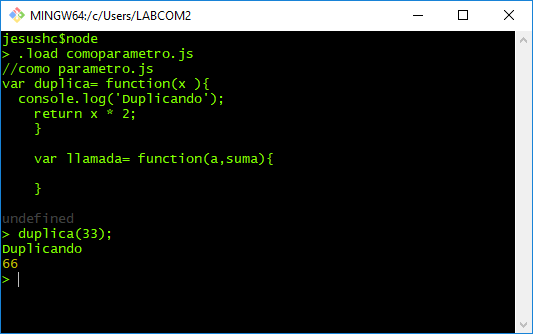
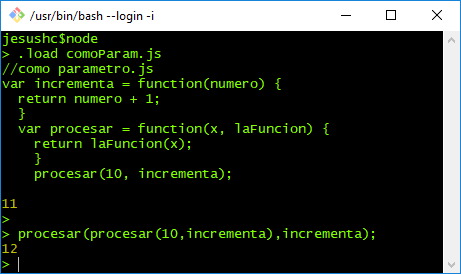
Correccion a funciones

Changed region(s): [[0.0, 0.0, 1.0, 1.0], [0.3037, 0.6131, 0.4859, 0.6715], [0.0304, 0.4088, 0.0607, 0.438]]

diff --git a/dia1/práctica2/comoParam2.js b/dia1/práctica2/comoParam2.js
@@ -1,0 +1,16 @@
+//como parametro.js
+var incrementa = function(numero) {
+  return numero + 1;
+}
+
+var duplicar = function(numero){
+  return numero+numero;
+}
+var procesar = function(x, laFuncion) {
+  return laFuncion(x);
+}
+procesar(10, incrementa);
+
+procesar(procesar(10,incrementa),incrementa);
+
+//procesar(procesar(procesar(10,incrementa),incrementa),duplicar);

diff --git a/dia1/práctica2/4.js b/dia1/práctica2/4.js
@@ -1,0 +1,17 @@
+//como parametro.js
+var suma = function (x , y) {
+return x + y;
+}
+
+var resta = function (x , y) {
+return x - y;
+}
+
+var calculadora = function (x , y, funcion) {
+return funcion(x,y);
+}
+calculadora(10, 20, suma);
+
+calculadora(10, 20, resta);
+
+calculadora(calculadora(10, 20, suma), calculadora(10, 20, resta),suma);

diff --git a/dia1/práctica2/comoParam5.js b/dia1/práctica2/comoParam5.js
@@ -1,0 +1,15 @@
+//como parametro.js
+var suma = function (x , y) {
+return x + y;
+}
+
+var resta = function (x , y) {
+return x - y;
+}
+
+var calculadora = function (x , y, funcion) {
+return funcion(x,y);
+}
+calculadora(10, 20, suma);
+calculadora(10, 20, resta);
+calculadora(calculadora(10, 20, suma),calculadora(10, 20, resta),suma);

diff --git a/dia1/práctica2/comoParam4.js b/dia1/práctica2/comoParam4.js
@@ -2,7 +2,13 @@
 var suma = function (x , y) {
 return x + y;
 }
+
+var resta = function (x , y) {
+return x - y;
+}
+
 var calculadora = function (x , y, funcion) {
 return funcion(x,y);
 }
-calculadora(10, 20, suma);
+//calculadora(10, 20, suma);
+//calculadora(10, 20, resta);

diff --git a/dia1/práctica2/comoParam.js b/dia1/práctica2/comoParam.js
@@ -1,0 +1,8 @@
+//como parametro.js
+var incrementa = function(numero) {
+  return numero + 1;
+}
+var procesar = function(x, laFuncion) {
+  return laFuncion(x);
+}
+procesar(10, incrementa);

diff --git a/dia1/práctica2/comoParam3.js b/dia1/práctica2/comoParam3.js
@@ -1,0 +1,10 @@
+
+
+//como parametro.js
+var suma = function (x , y) {
+return x + y;
+}
+var calculadora = function (x , y, funcion) {
+return funcion(x,y);
+}
+calculadora(10, 20, suma);

diff --git a/dia1/práctica2/README.md b/dia1/práctica2/README.md
@@ -2,6 +2,7 @@
 En node js al igual que en Javascript una funcion es una objeto que puede construirse en tiempo de ejecución, pasarse como un parámetro, devolverse desde una subrutina o asignarse a una variable, para luego ser invocada como variable. A esto se le conoce como first-class Object.
 
 A continuación realizaremos ejercicios que nos muestren estas características.
+### Declaración de funciones con nombre.
 
  1.-Primero aprendamos las 3 formas de declarar una función mas empleadas, la siguiente es una función con nombre, justo como la conocemos en otros lenguajes como C y PHP.
 
@@ -20,6 +21,8 @@ function regresaNumero(){
 Inicia REPL de node, carga el archivo y invoca los métodos.
 
 ![Screenshot](image1.PNG)
+
+### Declaclaración de funciones anónimas.
 
 2.-funciones anónimas
 Las funciones anónimas no tienen un nombre estableido en tre la palabra reservada function y el paso de argumentos, sin embargo es necesario asignarla a una variable para establecer una referencia.
@@ -40,6 +43,8 @@ Parámetros y argumentos
 
 ![Screenshot](image2.PNG)
 
+### Declaración de funciones como objetos.
+
 3.- Recuerda que la declaraciones de variables son dinámicos y que las funciones son objetos, de tal forma que se le pueden asignar argumentos, como en el siguiente ejemplo:
 
 ```
@@ -53,8 +58,9 @@ d.y = "Duplicando el numero";
 ```
 
 ![Screenshot](image3.PNG)
+Al ser consideradas como objetos, las funciones pueden ser enviadas como parámetro en la llamada a otras funciones.
 
-4.- funcion como parámetro
+4.- función como parámetro
 
 ![Screenshot](image4.PNG)
 
